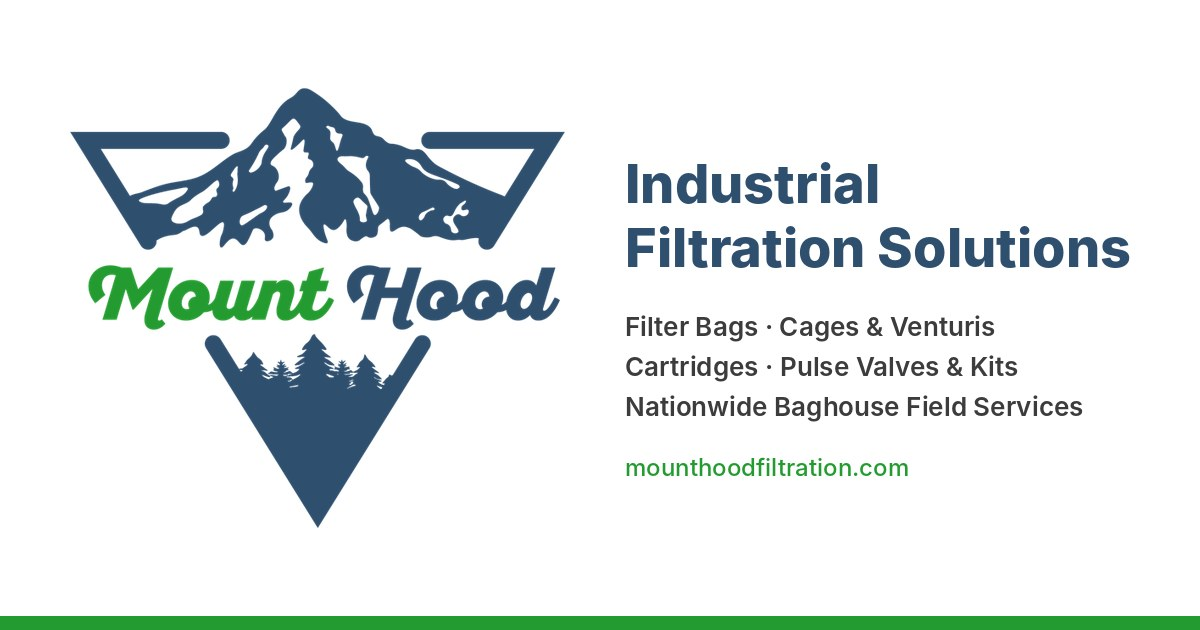
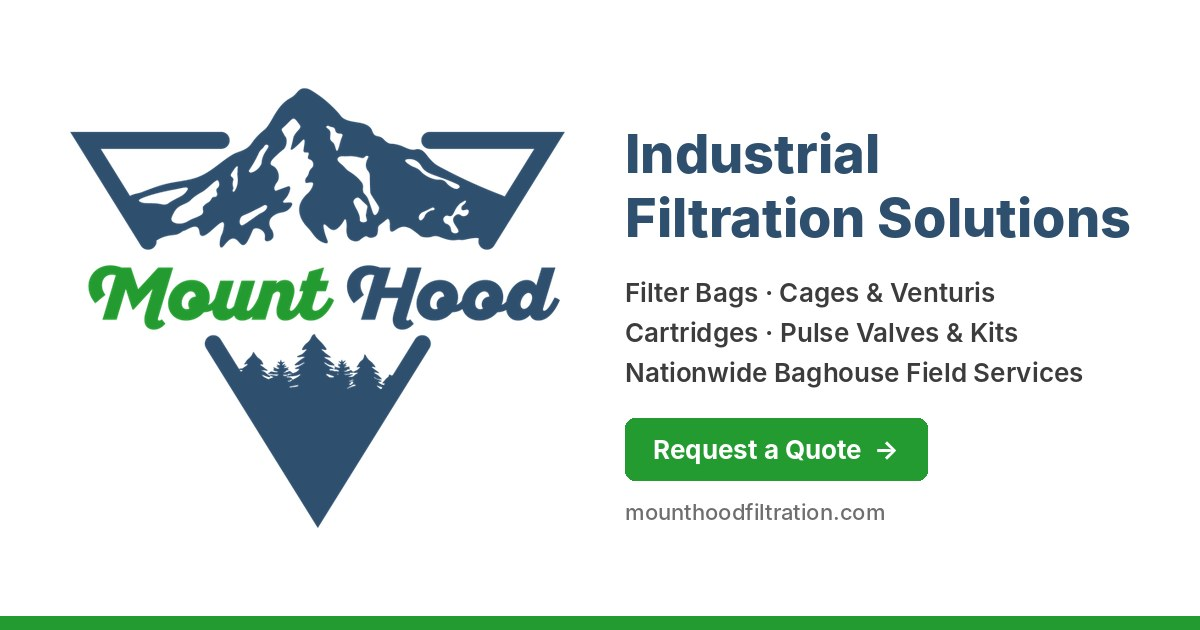
SEO: fix invalid Product schema, sync social titles/descriptions
- index.html: Organization offer catalog lists product lines as
  OfferCatalog entries instead of Product items without offers/price
  (flagged as 4 invalid Product snippets by the Rich Results Test)
- cages/cartridges/valves: quote-only Product schema without a price
  replaced with CollectionPage (category pages, no public pricing)
- og:title now matches the shortened <title> on all pages; og:description
  trimmed to <=125 chars (meta descriptions unchanged)
- Titles use a literal & so length checkers count them correctly
- Share image gets a "Request a Quote" button; URL versioned (?v=2) so
  social platforms re-fetch it

Claude-Session: https://claude.ai/code/session_01BVc39ho1XKqMiub55HyfgW

Changed region(s): [[0.4933, 0.573, 0.925, 0.8444], [0.5242, 0.2111, 0.9558, 0.4222], [0.5242, 0.4524, 0.8633, 0.5429]]

diff --git a/index.html b/index.html
@@ -3,21 +3,21 @@
 <head>
   <meta charset="UTF-8" />
   <meta name="viewport" content="width=device-width, initial-scale=1.0" />
-  <title>Baghouse Filter Bags, Cages &amp; Valves | Mount Hood Filtration</title>
+  <title>Baghouse Filter Bags, Cages & Valves | Mount Hood Filtration</title>
   <meta name="description" content="Industrial dust collector filter bags, wire cages, pleated cartridges, pulse-jet diaphragm valves, and nationwide baghouse field services &amp; outage crews." />
   <meta name="keywords" content="baghouse filter bags, dust collector filter bags, OEM replacement filter bags, pulse jet filter bags, Nomex filter bags, PTFE filter bags, fiberglass filter bags, filter bag cages, spun venturis, dust collector cartridges, pulse-jet diaphragm valves, baghouse change-out service, UV leak detection, Hood River Oregon" />
   <link rel="canonical" href="https://www.mounthoodfiltration.com/" />
-  <meta property="og:title" content="Mount Hood Filtration | Filter Bags, Cages, Cartridges, Pulse Valves &amp; Field Services" />
-  <meta property="og:description" content="Industrial dust collector filter bags, wire cages, pleated cartridges, pulse-jet diaphragm valves, and nationwide baghouse field services &amp; outage crews." />
+  <meta property="og:title" content="Baghouse Filter Bags, Cages & Valves | Mount Hood Filtration" />
+  <meta property="og:description" content="Filter bags, cages, cartridges, pulse-jet valves and nationwide baghouse field services. OEM matches for 75+ brands." />
   <meta property="og:url" content="https://www.mounthoodfiltration.com/" />
   <meta property="og:site_name" content="Mount Hood Filtration" />
   <meta property="og:type" content="website" />
-  <meta property="og:image" content="https://www.mounthoodfiltration.com/assets/images/og-image.jpg" />
+  <meta property="og:image" content="https://www.mounthoodfiltration.com/assets/images/og-image.jpg?v=2" />
   <meta property="og:image:width" content="1200" />
   <meta property="og:image:height" content="630" />
   <meta property="og:image:alt" content="Mount Hood Industrial Filtration Solutions — filter bags, cages, cartridges, pulse valves and field services" />
   <meta name="twitter:card" content="summary_large_image" />
-  <meta name="twitter:image" content="https://www.mounthoodfiltration.com/assets/images/og-image.jpg" />
+  <meta name="twitter:image" content="https://www.mounthoodfiltration.com/assets/images/og-image.jpg?v=2" />
   <link rel="icon" href="/favicon.ico" sizes="any" />
   <link rel="icon" type="image/png" sizes="32x32" href="assets/images/favicon-32.png" />
   <link rel="apple-touch-icon" href="assets/images/apple-touch-icon.png" />
@@ -45,11 +45,11 @@
         "@type": "OfferCatalog",
         "name": "Industrial Filtration Products & Services",
         "itemListElement": [
-          {"@type": "Offer", "itemOffered": {"@type": "Product", "name": "Industrial Filter Bags", "url": "https://www.mounthoodfiltration.com/"}},
-          {"@type": "Offer", "itemOffered": {"@type": "Product", "name": "Filter Bag Cages", "url": "https://www.mounthoodfiltration.com/cages.html"}},
-          {"@type": "Offer", "itemOffered": {"@type": "Product", "name": "Dust Collector Cartridges", "url": "https://www.mounthoodfiltration.com/cartridges.html"}},
-          {"@type": "Offer", "itemOffered": {"@type": "Product", "name": "Pulse-Jet Valves & Kits", "url": "https://www.mounthoodfiltration.com/valves.html"}},
-          {"@type": "Offer", "itemOffered": {"@type": "Service", "name": "Baghouse Field Services", "url": "https://www.mounthoodfiltration.com/field-services.html"}}
+          {"@type": "OfferCatalog", "name": "Industrial Filter Bags", "url": "https://www.mounthoodfiltration.com/"},
+          {"@type": "OfferCatalog", "name": "Filter Bag Cages", "url": "https://www.mounthoodfiltration.com/cages.html"},
+          {"@type": "OfferCatalog", "name": "Dust Collector Cartridges", "url": "https://www.mounthoodfiltration.com/cartridges.html"},
+          {"@type": "OfferCatalog", "name": "Pulse-Jet Valves & Kits", "url": "https://www.mounthoodfiltration.com/valves.html"},
+          {"@type": "OfferCatalog", "name": "Baghouse Field Services", "url": "https://www.mounthoodfiltration.com/field-services.html"}
         ]
       }
     },
@@ -123,7 +123,7 @@
     "name": "Mount Hood Filtration",
     "url": "https://www.mounthoodfiltration.com/",
     "logo": "https://www.mounthoodfiltration.com/assets/images/mount-hood-logo-new.png",
-    "image": "https://www.mounthoodfiltration.com/assets/images/og-image.jpg",
+    "image": "https://www.mounthoodfiltration.com/assets/images/og-image.jpg?v=2",
     "description": "Industrial dust collector filter bags, wire cages, pleated cartridges, pulse-jet valves and nationwide baghouse field services.",
     "telephone": "+1-541-275-0340",
     "email": "info@mounthoodfiltration.com",

diff --git a/cartridges.html b/cartridges.html
@@ -3,20 +3,20 @@
 <head>
   <meta charset="UTF-8" />
   <meta name="viewport" content="width=device-width, initial-scale=1.0" />
-  <title>Dust Collector Cartridges &amp; Filters | Mount Hood Filtration</title>
+  <title>Dust Collector Cartridges & Filters | Mount Hood Filtration</title>
   <meta name="description" content="Direct OEM-replacement pleated dust collector cartridges. Spunbond polyester, cellulose-blend, nanofiber, and ePTFE media with fast part-number matching." />
   <link rel="canonical" href="https://www.mounthoodfiltration.com/cartridges.html" />
-  <meta property="og:title" content="Dust Collector Cartridges | OEM Cross-Reference &amp; Custom Media | Mount Hood Filtration" />
-  <meta property="og:description" content="Direct OEM-replacement pleated dust collector cartridges. Spunbond polyester, cellulose-blend, nanofiber, and ePTFE media with fast part-number matching." />
+  <meta property="og:title" content="Dust Collector Cartridges & Filters | Mount Hood Filtration" />
+  <meta property="og:description" content="OEM-replacement pleated dust collector cartridges: nanofiber, spunbond, cellulose and ePTFE, matched by part number." />
   <meta property="og:url" content="https://www.mounthoodfiltration.com/cartridges.html" />
   <meta property="og:site_name" content="Mount Hood Filtration" />
   <meta property="og:type" content="website" />
-  <meta property="og:image" content="https://www.mounthoodfiltration.com/assets/images/og-image.jpg" />
+  <meta property="og:image" content="https://www.mounthoodfiltration.com/assets/images/og-image.jpg?v=2" />
   <meta property="og:image:width" content="1200" />
   <meta property="og:image:height" content="630" />
   <meta property="og:image:alt" content="Mount Hood Industrial Filtration Solutions — filter bags, cages, cartridges, pulse valves and field services" />
   <meta name="twitter:card" content="summary_large_image" />
-  <meta name="twitter:image" content="https://www.mounthoodfiltration.com/assets/images/og-image.jpg" />
+  <meta name="twitter:image" content="https://www.mounthoodfiltration.com/assets/images/og-image.jpg?v=2" />
   <link rel="icon" href="/favicon.ico" sizes="any" />
   <link rel="icon" type="image/png" sizes="32x32" href="assets/images/favicon-32.png" />
   <link rel="apple-touch-icon" href="assets/images/apple-touch-icon.png" />
@@ -43,12 +43,20 @@
   <script type="application/ld+json">
   {
     "@context": "https://schema.org",
-    "@type": "Product",
+    "@type": "CollectionPage",
     "name": "Pleated Dust Collector Cartridges",
     "description": "Direct OEM-replacement pleated dust collector cartridges. Spunbond polyester, cellulose-blend, nanofiber, and ePTFE media with fast part-number matching.",
     "url": "https://www.mounthoodfiltration.com/cartridges.html",
-    "brand": {"@type": "Brand", "name": "Mount Hood Filtration"},
-    "offers": {"@type": "Offer", "availability": "https://schema.org/InStock", "priceCurrency": "USD"}
+    "isPartOf": {
+      "@type": "WebSite",
+      "name": "Mount Hood Filtration",
+      "url": "https://www.mounthoodfiltration.com/"
+    },
+    "publisher": {
+      "@type": "Organization",
+      "name": "Mount Hood Filtration",
+      "url": "https://www.mounthoodfiltration.com"
+    }
   }
   </script>
   <script type="application/ld+json">

diff --git a/cages.html b/cages.html
@@ -3,20 +3,20 @@
 <head>
   <meta charset="UTF-8" />
   <meta name="viewport" content="width=device-width, initial-scale=1.0" />
-  <title>Filter Bag Cages &amp; Spun Venturis | Mount Hood Filtration</title>
+  <title>Filter Bag Cages & Spun Venturis | Mount Hood Filtration</title>
   <meta name="description" content="Custom and OEM-replacement dust collector filter cages in carbon steel, galvanized, and 304/316 stainless. Oval, snap-ring, venturi, and split-cage configurations." />
   <link rel="canonical" href="https://www.mounthoodfiltration.com/cages.html" />
-  <meta property="og:title" content="Filter Bag Cages | Oval, Snap-Ring, Venturi &amp; Top-Load | Mount Hood Filtration" />
-  <meta property="og:description" content="Custom and OEM-replacement dust collector filter cages in carbon steel, galvanized, and 304/316 stainless. Oval, snap-ring, venturi, and split-cage configurations." />
+  <meta property="og:title" content="Filter Bag Cages & Spun Venturis | Mount Hood Filtration" />
+  <meta property="og:description" content="Custom and OEM-replacement filter bag cages and spun venturis in galvanized, carbon and 304/316 stainless steel." />
   <meta property="og:url" content="https://www.mounthoodfiltration.com/cages.html" />
   <meta property="og:site_name" content="Mount Hood Filtration" />
   <meta property="og:type" content="website" />
-  <meta property="og:image" content="https://www.mounthoodfiltration.com/assets/images/og-image.jpg" />
+  <meta property="og:image" content="https://www.mounthoodfiltration.com/assets/images/og-image.jpg?v=2" />
   <meta property="og:image:width" content="1200" />
   <meta property="og:image:height" content="630" />
   <meta property="og:image:alt" content="Mount Hood Industrial Filtration Solutions — filter bags, cages, cartridges, pulse valves and field services" />
   <meta name="twitter:card" content="summary_large_image" />
-  <meta name="twitter:image" content="https://www.mounthoodfiltration.com/assets/images/og-image.jpg" />
+  <meta name="twitter:image" content="https://www.mounthoodfiltration.com/assets/images/og-image.jpg?v=2" />
   <link rel="icon" href="/favicon.ico" sizes="any" />
   <link rel="icon" type="image/png" sizes="32x32" href="assets/images/favicon-32.png" />
   <link rel="apple-touch-icon" href="assets/images/apple-touch-icon.png" />
@@ -43,12 +43,20 @@
   <script type="application/ld+json">
   {
     "@context": "https://schema.org",
-    "@type": "Product",
+    "@type": "CollectionPage",
     "name": "Baghouse Filter Bag Cages",
     "description": "Custom and OEM-replacement dust collector filter cages in carbon steel, galvanized, and 304/316 stainless. Oval, snap-ring, venturi, and split-cage configurations.",
     "url": "https://www.mounthoodfiltration.com/cages.html",
-    "brand": {"@type": "Brand", "name": "Mount Hood Filtration"},
-    "offers": {"@type": "Offer", "availability": "https://schema.org/InStock", "priceCurrency": "USD"}
+    "isPartOf": {
+      "@type": "WebSite",
+      "name": "Mount Hood Filtration",
+      "url": "https://www.mounthoodfiltration.com/"
+    },
+    "publisher": {
+      "@type": "Organization",
+      "name": "Mount Hood Filtration",
+      "url": "https://www.mounthoodfiltration.com"
+    }
   }
   </script>
   <script type="application/ld+json">

diff --git a/valves.html b/valves.html
@@ -3,20 +3,20 @@
 <head>
   <meta charset="UTF-8" />
   <meta name="viewport" content="width=device-width, initial-scale=1.0" />
-  <title>Pulse-Jet Valves &amp; Rebuild Kits | Mount Hood Filtration</title>
+  <title>Pulse-Jet Valves & Rebuild Kits | Mount Hood Filtration</title>
   <meta name="description" content="Industrial baghouse pulse-jet diaphragm valves, solenoid coils, and repair kits. Fast OEM cross-referencing by port size, voltage, and manifold type." />
   <link rel="canonical" href="https://www.mounthoodfiltration.com/valves.html" />
-  <meta property="og:title" content="Pulse-Jet Diaphragm Valves &amp; Rebuild Kits | Mount Hood Filtration" />
-  <meta property="og:description" content="Industrial baghouse pulse-jet diaphragm valves, solenoid coils, and repair kits. Fast OEM cross-referencing by port size, voltage, and manifold type." />
+  <meta property="og:title" content="Pulse-Jet Valves & Rebuild Kits | Mount Hood Filtration" />
+  <meta property="og:description" content="Pulse-jet diaphragm valves, repair kits, solenoids and timer boards for Goyen, ASCO, Mecair, Turbo and Autel." />
   <meta property="og:url" content="https://www.mounthoodfiltration.com/valves.html" />
   <meta property="og:site_name" content="Mount Hood Filtration" />
   <meta property="og:type" content="website" />
-  <meta property="og:image" content="https://www.mounthoodfiltration.com/assets/images/og-image.jpg" />
+  <meta property="og:image" content="https://www.mounthoodfiltration.com/assets/images/og-image.jpg?v=2" />
   <meta property="og:image:width" content="1200" />
   <meta property="og:image:height" content="630" />
   <meta property="og:image:alt" content="Mount Hood Industrial Filtration Solutions — filter bags, cages, cartridges, pulse valves and field services" />
   <meta name="twitter:card" content="summary_large_image" />
-  <meta name="twitter:image" content="https://www.mounthoodfiltration.com/assets/images/og-image.jpg" />
+  <meta name="twitter:image" content="https://www.mounthoodfiltration.com/assets/images/og-image.jpg?v=2" />
   <link rel="icon" href="/favicon.ico" sizes="any" />
   <link rel="icon" type="image/png" sizes="32x32" href="assets/images/favicon-32.png" />
   <link rel="apple-touch-icon" href="assets/images/apple-touch-icon.png" />
@@ -43,12 +43,20 @@
   <script type="application/ld+json">
   {
     "@context": "https://schema.org",
-    "@type": "Product",
+    "@type": "CollectionPage",
     "name": "Pulse-Jet Diaphragm Valves & Rebuild Kits",
     "description": "Industrial baghouse pulse-jet diaphragm valves, solenoid coils, and repair kits. OEM and cost-saving aftermarket for Goyen, ASCO, Mecair, Turbo, and Autel.",
     "url": "https://www.mounthoodfiltration.com/valves.html",
-    "brand": {"@type": "Brand", "name": "Mount Hood Filtration"},
-    "offers": {"@type": "Offer", "availability": "https://schema.org/InStock", "priceCurrency": "USD"}
+    "isPartOf": {
+      "@type": "WebSite",
+      "name": "Mount Hood Filtration",
+      "url": "https://www.mounthoodfiltration.com/"
+    },
+    "publisher": {
+      "@type": "Organization",
+      "name": "Mount Hood Filtration",
+      "url": "https://www.mounthoodfiltration.com"
+    }
   }
   </script>
   <script src="https://cdn.tailwindcss.com"></script>

diff --git a/field-services.html b/field-services.html
@@ -3,20 +3,20 @@
 <head>
   <meta charset="UTF-8" />
   <meta name="viewport" content="width=device-width, initial-scale=1.0" />
-  <title>Baghouse Field Services &amp; Leak Audits | Mount Hood Filtration</title>
+  <title>Baghouse Field Services & Leak Audits | Mount Hood Filtration</title>
   <meta name="description" content="Turnkey dust collector filter bag change-outs, cage upgrades, ultrasonic cleaning, UV dye leak testing, and emergency outage crews nationwide." />
   <link rel="canonical" href="https://www.mounthoodfiltration.com/field-services.html" />
-  <meta property="og:title" content="Baghouse Field Services, Change-Outs &amp; UV Leak Audits | Mount Hood Filtration" />
-  <meta property="og:description" content="Turnkey dust collector filter bag change-outs, cage upgrades, ultrasonic cleaning, UV dye leak testing, and emergency outage crews nationwide." />
+  <meta property="og:title" content="Baghouse Field Services & Leak Audits | Mount Hood Filtration" />
+  <meta property="og:description" content="Nationwide baghouse change-outs, UV leak audits, tubesheet inspections and emergency shutdown crews." />
   <meta property="og:url" content="https://www.mounthoodfiltration.com/field-services.html" />
   <meta property="og:site_name" content="Mount Hood Filtration" />
   <meta property="og:type" content="website" />
-  <meta property="og:image" content="https://www.mounthoodfiltration.com/assets/images/og-image.jpg" />
+  <meta property="og:image" content="https://www.mounthoodfiltration.com/assets/images/og-image.jpg?v=2" />
   <meta property="og:image:width" content="1200" />
   <meta property="og:image:height" content="630" />
   <meta property="og:image:alt" content="Mount Hood Industrial Filtration Solutions — filter bags, cages, cartridges, pulse valves and field services" />
   <meta name="twitter:card" content="summary_large_image" />
-  <meta name="twitter:image" content="https://www.mounthoodfiltration.com/assets/images/og-image.jpg" />
+  <meta name="twitter:image" content="https://www.mounthoodfiltration.com/assets/images/og-image.jpg?v=2" />
   <link rel="icon" href="/favicon.ico" sizes="any" />
   <link rel="icon" type="image/png" sizes="32x32" href="assets/images/favicon-32.png" />
   <link rel="apple-touch-icon" href="assets/images/apple-touch-icon.png" />
